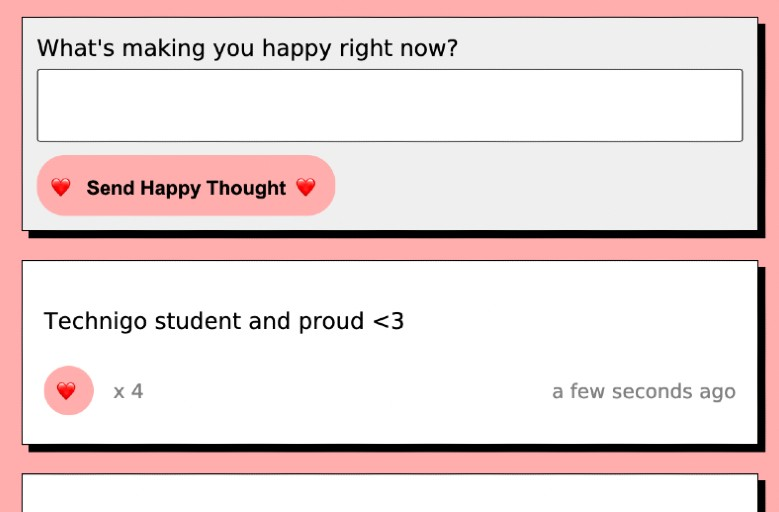
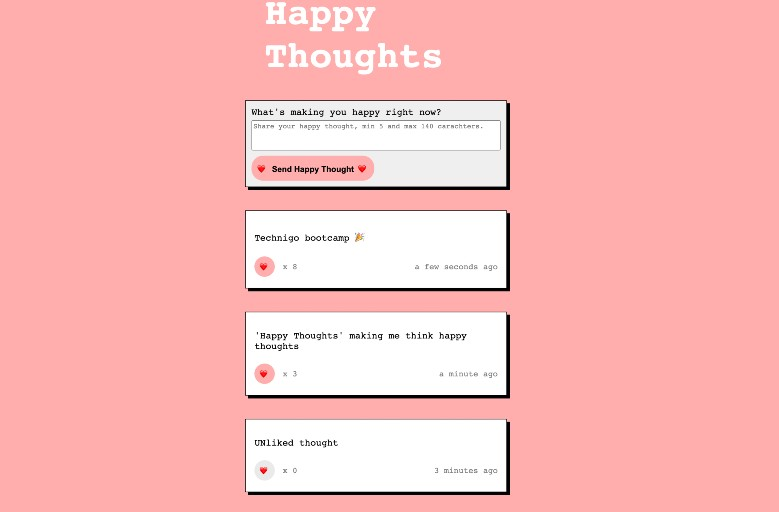
added teh InputCounter and fixed the Header

diff --git a/code/src/Components/NewThoughtInput.js b/code/src/Components/NewThoughtInput.js
@@ -1,4 +1,5 @@
 import React from 'react';
+import InputCounter from './InputCounter';
 import './newThoughtInput.css';
 
 const NewThoughtInput = ({ onFormSubmit, newThought, onNewThoughtChange }) => {
@@ -7,14 +8,17 @@ const NewThoughtInput = ({ onFormSubmit, newThought, onNewThoughtChange }) => {
       <label>
         What's making you happy right now?
         <textarea
+          className="new-thought-input__text-area"
           rows="2"
-          minLength="5"
-          maxLength="140"
+          // minLength="5"
+          // maxLength="140"
           required
           placeholder="Share your happy thought, min 5 and max 140 carachters."
           value={newThought}
           onChange={onNewThoughtChange}
         />
+      </label>
+      <div className="new-thought-input__button-wrapper">
         <button
           className="new-thought-input__button"
           disabled={newThought.length < 5 || newThought.length > 140}
@@ -28,7 +32,8 @@ const NewThoughtInput = ({ onFormSubmit, newThought, onNewThoughtChange }) => {
             &ensp;❤
           </span>
         </button>
-      </label>
+        <InputCounter charCount={newThought.length} />
+      </div>
     </form>
   );
 };

diff --git a/code/src/Components/newThoughtInput.css b/code/src/Components/newThoughtInput.css
@@ -10,23 +10,32 @@
   max-width: 450px;
 }
 
-textarea {
+.new-thought-input__text-area {
   resize: none;
   width: 100%;
   margin: 5px 0;
-  font-size: 20px;
+  font-size: 16px;
 }
 
 ::placeholder {
   font-size: 12px;
 }
 
+.new-thought-input__button-wrapper {
+  display: flex;
+  align-items: center;
+  justify-content: space-between;
+}
+
 .new-thought-input__button {
+  display: flex;
+  align-items: center;
+  justify-content: center;
   color: #000;
   background-color: #ffadad;
   font-weight: 700;
   font-size: 14px;
-  padding: 10px;
+  height: 40px;
   border-radius: 20px;
 }
 

diff --git a/code/src/Components/InputCounter.js b/code/src/Components/InputCounter.js
@@ -1,0 +1,17 @@
+import React from 'react';
+import './inputCounter.css';
+
+const InputCounter = ({ charCount }) => {
+  const maxChar = 140;
+
+  return (
+    <p className="p-input-counter">
+      <span className={charCount > 140 ? 'p-red' : 'p-green'}>
+        {maxChar - charCount}
+      </span>
+      /{maxChar}
+    </p>
+  );
+};
+
+export default InputCounter;

diff --git a/code/src/index.css b/code/src/index.css
@@ -9,19 +9,6 @@ body {
   background-color: #ffadad;
 }
 
-header {
-  width: 100%;
-  /* display: flex;
-  justify-content: center; */
-  padding: 0 10%;
-}
-
-h1 {
-  font-size: 4em;
-  color: #ffff;
-  margin-bottom: 5%;
-}
-
 button {
   border: none;
 }

diff --git a/code/src/Components/header.css b/code/src/Components/header.css
@@ -1,0 +1,11 @@
+header {
+  width: 100%;
+  padding: 0 10%;
+}
+
+header h1 {
+  font-size: 4em;
+  color: #ffff;
+  margin-bottom: 5%;
+  text-shadow: 5px 5px black;
+}

diff --git a/code/src/Components/inputCounter.css b/code/src/Components/inputCounter.css
@@ -1,0 +1,14 @@
+.p-input-counter,
+.p-red,
+.p-green {
+  font-weight: 300;
+  font-size: 14px;
+}
+
+.p-red {
+  color: #c70039;
+}
+
+.p-green {
+  color: #006e33;
+}

diff --git a/code/src/Components/Header.js b/code/src/Components/Header.js
@@ -1,4 +1,5 @@
 import React from 'react';
+import './header.css';
 
 const Header = () => {
   return (
